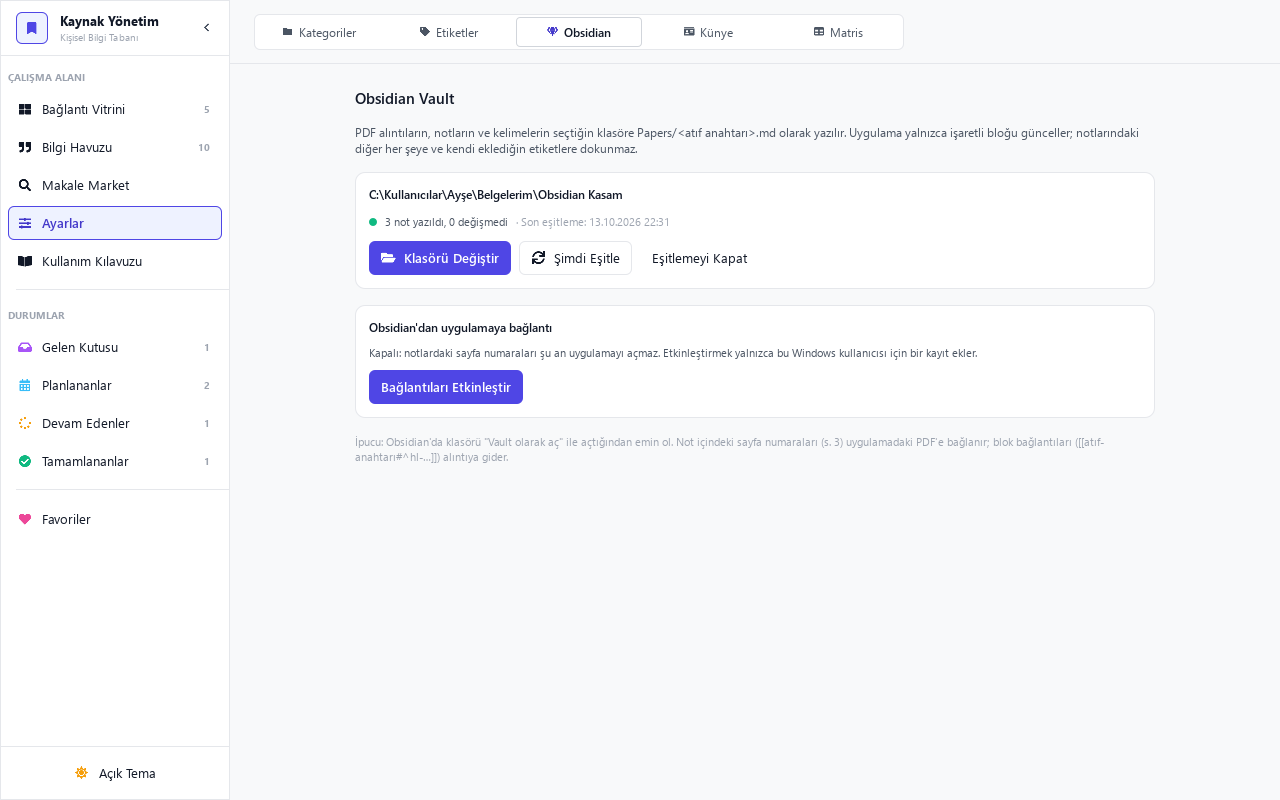
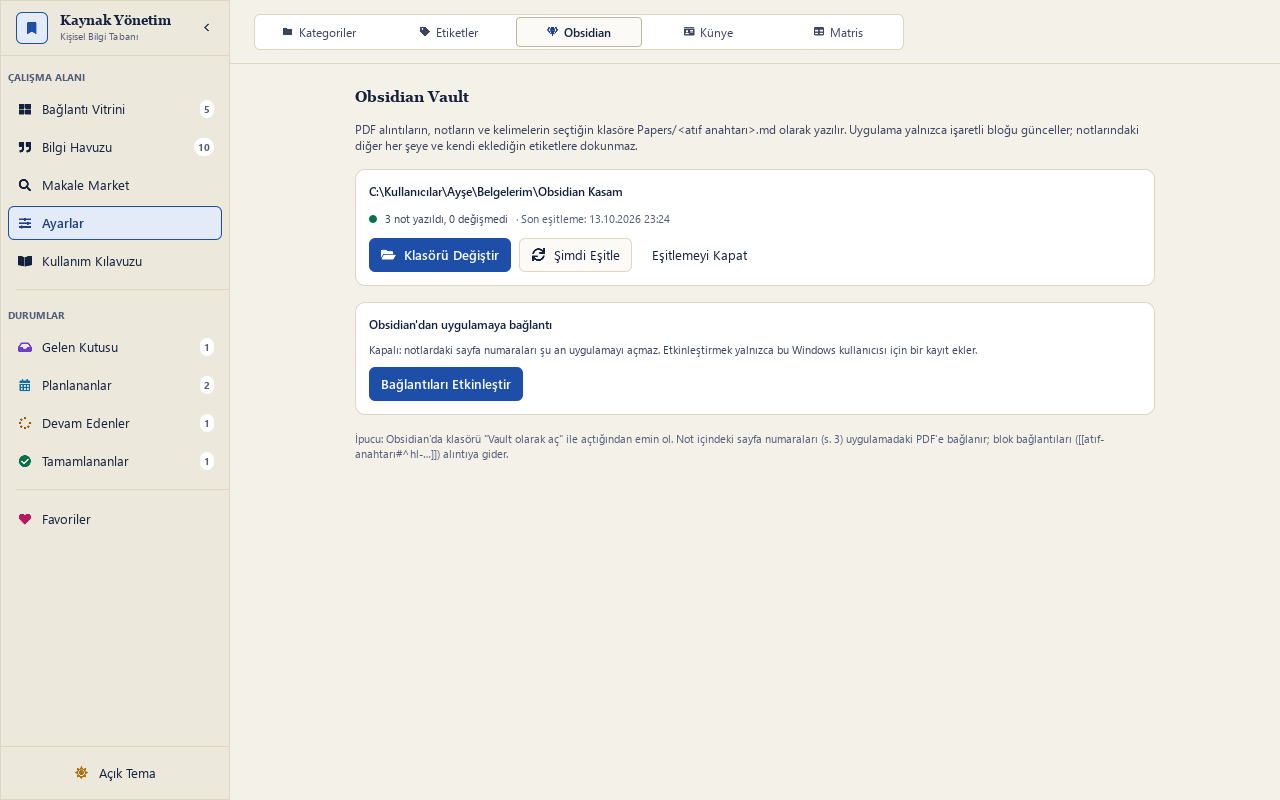
Akademik renk paleti ve tipografi denemesi
Zemin ve vurgu akademik paletle yeniden kuruldu: açık temada sıcak kâğıt
tonu, koyu temada derin lacivert, mürekkep laciverti metin, akademik mavi
vurgu. Durum renkleri açık temada daha koyu, koyu temada daha parlak;
tüm metin/zemin çiftleri WCAG AA (ana metin 7:1 üstü). Kontrast bir
testle her iki temada denetlenir.

Tipografi: arayüz Segoe UI Variable Text, başlıklar ve kart başlıkları
Sitka Heading (akademik serif), alıntılar Sitka Text. Aday yazı tipleri
Qt.fontFamilies() ile seçilir, kurulu değilse Georgia/Segoe UI'ye düşer;
yazı tipi dosyası paketlenmez. Kategori renk seçici paleti akademik
tonlara çekildi; kayıtlı kategori renkleri değişmez.

Kılavuz görselleri yeni temayla yeniden üretildi.

diff --git a/qml/theme/Theme.qml b/qml/theme/Theme.qml
@@ -7,76 +7,79 @@ QtObject {
     // Tema durumu (Bridge'e bağlı)
     property bool isDark: true
 
-    // Arka planlar (Notion / Linear tarzı katmanlar)
-    readonly property color bgBase: isDark ? "#0D0F17" : "#F8F9FA"
-    readonly property color bgSidebar: isDark ? "#121520" : "#FFFFFF"
-    readonly property color bgSurface: isDark ? "#181B28" : "#FFFFFF"
-    readonly property color bgElevated: isDark ? "#1F2335" : "#FFFFFF"
-    readonly property color bgHover: isDark ? "#262C42" : "#F3F4F6"
-    readonly property color bgActive: isDark ? "#2F3652" : "#E5E7EB"
+    // Akademik palet: mürekkep laciverti + kâğıt tonları. Açık temada sıcak "kâğıt" zemin (göz yormaz), koyu temada
+    // derin lacivert zemin; metinler her iki temada da WCAG AA (≥ 4.5:1) kontrastın üstündedir.
 
-    // Kenarlıklar (Subtle 1px borders)
-    readonly property color borderSubtle: isDark ? "#22273A" : "#E5E7EB"
-    readonly property color borderStrong: isDark ? "#353D5A" : "#D1D5DB"
-    readonly property color borderFocus: isDark ? "#6366F1" : "#4F46E5"
+    // Arka planlar (katmanlı yüzeyler)
+    readonly property color bgBase: isDark ? "#0B1020" : "#F4F1E9"
+    readonly property color bgSidebar: isDark ? "#0F1629" : "#ECE8DC"
+    readonly property color bgSurface: isDark ? "#141C33" : "#FBFAF6"
+    readonly property color bgElevated: isDark ? "#1B2542" : "#FFFFFF"
+    readonly property color bgHover: isDark ? "#243154" : "#E7E2D3"
+    readonly property color bgActive: isDark ? "#2E3E69" : "#DAD3BF"
+
+    // Kenarlıklar
+    readonly property color borderSubtle: isDark ? "#25314F" : "#DDD6C3"
+    readonly property color borderStrong: isDark ? "#3A4B78" : "#BDB49B"
+    readonly property color borderFocus: isDark ? "#7FA8FF" : "#1E4FA8"
 
     // Metinler
-    readonly property color textPrimary: isDark ? "#F9FAFB" : "#111827"
-    readonly property color textSecondary: isDark ? "#9CA3AF" : "#4B5563"
-    readonly property color textMuted: isDark ? "#64748B" : "#9CA3AF"
+    readonly property color textPrimary: isDark ? "#F5F2EA" : "#14213D"
+    readonly property color textSecondary: isDark ? "#C3CCE3" : "#3A4561"
+    readonly property color textMuted: isDark ? "#9AA7C8" : "#525D7A"
     readonly property color textOnAccent: "#FFFFFF"
 
-    // Vurgu (Accent - Indigo / Electric Sky)
-    readonly property color accent: isDark ? "#6366F1" : "#4F46E5"
-    readonly property color accentHover: isDark ? "#818CF8" : "#6366F1"
-    readonly property color accentSubtle: isDark ? "#1E223D" : "#EEF2FF"
-    readonly property color accentText: isDark ? "#A5B4FC" : "#4338CA"
+    // Vurgu (akademik mavi)
+    readonly property color accent: isDark ? "#3866D6" : "#1E4FA8"
+    readonly property color accentHover: isDark ? "#5E8CF0" : "#2A63C9"
+    readonly property color accentSubtle: isDark ? "#182750" : "#E4EBF8"
+    readonly property color accentText: isDark ? "#A9C2FF" : "#1B3F86"
 
-    // Durum Renkleri
-    readonly property color statusInbox: "#A855F7"
-    readonly property color statusPlanned: "#38BDF8"
-    readonly property color statusInProgress: "#F59E0B"
-    readonly property color statusCompleted: "#10B981"
+    // Durum Renkleri (açık temada daha koyu, koyu temada daha parlak: iki yüzeyde de okunur)
+    readonly property color statusInbox: isDark ? "#B99CF7" : "#6D3FC4"
+    readonly property color statusPlanned: isDark ? "#5CC3F5" : "#0B6FA8"
+    readonly property color statusInProgress: isDark ? "#F5B83D" : "#9A5208"
+    readonly property color statusCompleted: isDark ? "#3DD6A0" : "#08704E"
 
-    readonly property color statusInboxBg: isDark ? "#281738" : "#F3E8FF"
-    readonly property color statusPlannedBg: isDark ? "#13273D" : "#E0F2FE"
-    readonly property color statusInProgressBg: isDark ? "#332210" : "#FEF3C7"
-    readonly property color statusCompletedBg: isDark ? "#122E23" : "#D1FAE5"
+    readonly property color statusInboxBg: isDark ? "#2A1D47" : "#EBE3FA"
+    readonly property color statusPlannedBg: isDark ? "#10304A" : "#DCEEF9"
+    readonly property color statusInProgressBg: isDark ? "#3A2A0F" : "#FAEBCF"
+    readonly property color statusCompletedBg: isDark ? "#0F3328" : "#D5F0E3"
 
     // Aksiyon Renkleri
-    readonly property color danger: "#EF4444"
-    readonly property color dangerHover: "#DC2626"
-    readonly property color dangerSubtle: isDark ? "#32161A" : "#FEE2E2"
-    readonly property color dangerText: isDark ? "#FCA5A5" : "#B91C1C"
+    readonly property color danger: isDark ? "#F0645F" : "#C62828"
+    readonly property color dangerHover: isDark ? "#F47E7A" : "#A61F1F"
+    readonly property color dangerSubtle: isDark ? "#3A1B20" : "#FBE3E1"
+    readonly property color dangerText: isDark ? "#FFB4B0" : "#9B1C1C"
 
-    readonly property color favorite: "#EC4899"
-    readonly property color favoriteSubtle: isDark ? "#331627" : "#FCE7F3"
+    readonly property color favorite: isDark ? "#F472A8" : "#B8195F"
+    readonly property color favoriteSubtle: isDark ? "#3A1A2D" : "#FADCE9"
 
-    readonly property color pin: "#F59E0B"
+    readonly property color pin: isDark ? "#F2C04D" : "#A8730E"
 
     // Gölgeler ve Karartma
-    readonly property color shadowColor: isDark ? "#00000088" : "#00000018"
+    readonly property color shadowColor: isDark ? "#00000099" : "#14213D22"
     readonly property color overlayBg: "#00000077"
     readonly property color backdropSubtle: "#00000055"
-    readonly property color tooltipBg: isDark ? "#1E2235" : "#1F2937"
-    readonly property color chipUnselectedBg: isDark ? "#2A2F45" : "#E2E8F0"
-    readonly property color badgeOverlay: isDark ? "#141724DD" : "#FFFFFFEE"
-    readonly property color gradientHeaderStart: isDark ? "#1A2238" : "#EEF2FF"
-    readonly property color fallbackCategoryColor: "#64748B"
-    readonly property color popoverBg: isDark ? "#1A1E2F" : "#FFFFFF"
+    readonly property color tooltipBg: isDark ? "#1B2542" : "#14213D"
+    readonly property color chipUnselectedBg: isDark ? "#27345A" : "#E3DDCB"
+    readonly property color badgeOverlay: isDark ? "#0F1629DD" : "#FBFAF6EE"
+    readonly property color gradientHeaderStart: isDark ? "#16223F" : "#E4EBF8"
+    readonly property color fallbackCategoryColor: "#5B6683"
+    readonly property color popoverBg: isDark ? "#182140" : "#FFFFFF"
     readonly property color swatchBorderLight: "#FFFFFF44"
     readonly property color markerBorderLight: "#FFFFFF66"
     readonly property color thumbnailOverlay: "#00000045"
 
-    // Renk Paletleri
+    // Renk Paletleri (kategori rengi seçici)
     readonly property var categoryPalette: [
-        "#6366F1",
-        "#38BDF8",
-        "#10B981",
-        "#F59E0B",
-        "#EF4444",
-        "#EC4899",
-        "#8B5CF6"
+        "#1E4FA8", // Oxford mavisi
+        "#0F766E", // Çam yeşili-teal
+        "#15803D", // Orman yeşili
+        "#B35F0B", // Kehribar
+        "#9F1239", // Bordo
+        "#6D3FC4", // Mor
+        "#475569"  // Arduvaz
     ]
 
     // Alıntı Fosforlu Renk Paleti
@@ -96,8 +99,19 @@ QtObject {
     readonly property int radiusXl: 18
     readonly property int radiusPill: 999
 
-    // Tipografi
-    readonly property string fontFamily: "Inter, Segoe UI, sans-serif"
+    // Tipografi: arayüz Segoe UI Variable (modern, net), başlıklar Sitka Heading (akademik serif), okunacak metin
+    // (alıntılar) Sitka Text. Kurulu değilse sıradaki aday seçilir (Georgia / Segoe UI hemen her Windows'ta vardır).
+    function pickFamily(candidates, fallback) {
+        const available = Qt.fontFamilies()
+        for (let i = 0; i < candidates.length; i++) {
+            if (available.indexOf(candidates[i]) !== -1)
+                return candidates[i]
+        }
+        return fallback
+    }
+    readonly property string fontFamily: pickFamily(["Segoe UI Variable Text", "Segoe UI", "Inter"], "Segoe UI")
+    readonly property string fontHeading: pickFamily(["Sitka Heading", "Georgia", "Cambria", "Palatino Linotype"], "Georgia")
+    readonly property string fontReading: pickFamily(["Sitka Text", "Georgia", "Cambria", "Palatino Linotype"], "Georgia")
     readonly property int fontXs: 11
     readonly property int fontSm: 12
     readonly property int fontBase: 13

diff --git a/qml/views/SettingsView.qml b/qml/views/SettingsView.qml
@@ -289,7 +289,7 @@ Item {
 
                     Text {
                         text: "Yeni Kategori Ekle"
-                        font.family: Theme.fontFamily
+                        font.family: Theme.fontHeading
                         font.pixelSize: Theme.fontMd
                         font.weight: Font.DemiBold
                         color: Theme.textPrimary
@@ -369,7 +369,7 @@ Item {
 
                     Text {
                         text: "Mevcut Kategoriler (" + bridge.settings.categories.length + ")"
-                        font.family: Theme.fontFamily
+                        font.family: Theme.fontHeading
                         font.pixelSize: Theme.fontMd
                         font.weight: Font.DemiBold
                         color: Theme.textPrimary
@@ -399,7 +399,7 @@ Item {
 
                     Text {
                         text: "Yeni Etiket Ekle"
-                        font.family: Theme.fontFamily
+                        font.family: Theme.fontHeading
                         font.pixelSize: Theme.fontMd
                         font.weight: Font.DemiBold
                         color: Theme.textPrimary
@@ -471,7 +471,7 @@ Item {
 
                     Text {
                         text: "Mevcut Etiketler (" + bridge.settings.tags.length + ")"
-                        font.family: Theme.fontFamily
+                        font.family: Theme.fontHeading
                         font.pixelSize: Theme.fontMd
                         font.weight: Font.DemiBold
                         color: Theme.textPrimary

diff --git a/qml/views/GuideView.qml b/qml/views/GuideView.qml
@@ -67,7 +67,7 @@ Item {
                     anchors.leftMargin: 20
                     anchors.verticalCenter: parent.verticalCenter
                     text: "İçindekiler"
-                    font.family: Theme.fontFamily
+                    font.family: Theme.fontHeading
                     font.pixelSize: Theme.fontMd
                     font.weight: Font.DemiBold
                     color: Theme.textPrimary
@@ -174,7 +174,7 @@ Item {
 
                 Text {
                     text: "Kullanım Kılavuzu"
-                    font.family: Theme.fontFamily
+                    font.family: Theme.fontHeading
                     font.pixelSize: Theme.font2Xl
                     font.weight: Font.Bold
                     color: Theme.textPrimary
@@ -221,7 +221,7 @@ Item {
                         Text {
                             anchors.verticalCenter: parent.verticalCenter
                             text: (section.index + 1) + ". " + section.modelData.title
-                            font.family: Theme.fontFamily
+                            font.family: Theme.fontHeading
                             font.pixelSize: Theme.fontXl
                             font.weight: Font.DemiBold
                             color: Theme.textPrimary

diff --git a/qml/components/MatrixTab.qml b/qml/components/MatrixTab.qml
@@ -338,8 +338,8 @@ Item {
                                             width: parent.width
                                             wrapMode: Text.Wrap
                                             text: "“" + quoteItem.modelData.text + "”"
-                                            font.family: Theme.fontFamily
-                                            font.pixelSize: Theme.fontXs
+                                            font.family: Theme.fontReading
+                                            font.pixelSize: Theme.fontSm
                                             font.italic: true
                                             lineHeight: 1.2
                                             color: Theme.textPrimary

diff --git a/qml/components/AppCard.qml b/qml/components/AppCard.qml
@@ -365,8 +365,8 @@ Item {
                     // Column'un padding'i çocukları kaydırır: genişlikten düşülmezse metin sağdan taşıp kırpılır.
                     width: parent.width - parent.leftPadding - parent.rightPadding
                     text: root.title
-                    font.family: Theme.fontFamily
-                    font.pixelSize: root.isSimple ? Theme.fontBase : (Theme.fontBase + 1)
+                    font.family: Theme.fontHeading
+                    font.pixelSize: root.isSimple ? Theme.fontBase : (Theme.fontBase + 2)
                     font.weight: Font.DemiBold
                     color: Theme.textPrimary
                     lineHeight: root.isSimple ? 1.15 : 1.25

diff --git a/qml/components/ResourceFormModal.qml b/qml/components/ResourceFormModal.qml
@@ -128,7 +128,7 @@ Item {
                     anchors.left: parent.left
                     anchors.verticalCenter: parent.verticalCenter
                     text: root.resourceId > 0 ? "Kaynağı Düzenle" : "Yeni Kaynak Ekle"
-                    font.family: Theme.fontFamily
+                    font.family: Theme.fontHeading
                     font.pixelSize: Theme.fontLg
                     font.weight: Font.Bold
                     color: Theme.textPrimary

diff --git a/qml/components/InspectorDrawer.qml b/qml/components/InspectorDrawer.qml
@@ -65,7 +65,7 @@ Rectangle {
                 Text {
                     width: parent.width - 40
                     text: root.resource && root.resource.title ? root.resource.title : "İsimsiz Kaynak"
-                    font.family: Theme.fontFamily
+                    font.family: Theme.fontHeading
                     font.pixelSize: Theme.fontLg
                     font.weight: Font.Bold
                     color: Theme.textPrimary

diff --git a/qml/views/ShowcaseView.qml b/qml/views/ShowcaseView.qml
@@ -302,7 +302,7 @@ Item {
                 Text {
                     anchors.horizontalCenter: parent.horizontalCenter
                     text: "Henüz kriterlere uygun kaynak yok"
-                    font.family: Theme.fontFamily
+                    font.family: Theme.fontHeading
                     font.pixelSize: Theme.fontMd
                     font.weight: Font.DemiBold
                     color: Theme.textPrimary

diff --git a/qml/main.qml b/qml/main.qml
@@ -256,7 +256,7 @@ ApplicationWindow {
                 Text {
                     anchors.horizontalCenter: parent.horizontalCenter
                     text: "PDF'i buraya bırak"
-                    font.family: Theme.fontFamily
+                    font.family: Theme.fontHeading
                     font.pixelSize: Theme.fontLg
                     font.weight: Font.DemiBold
                     color: Theme.accentText

diff --git a/qml/components/PaperInfoPopup.qml b/qml/components/PaperInfoPopup.qml
@@ -34,7 +34,7 @@ Popup {
                 width: parent.width - fetchButton.width - 8
                 anchors.verticalCenter: parent.verticalCenter
                 text: "Atıf ve Kaynak Bilgisi"
-                font.family: Theme.fontFamily
+                font.family: Theme.fontHeading
                 font.pixelSize: Theme.fontMd
                 font.weight: Font.Bold
                 color: Theme.textPrimary

diff --git a/qml/components/InspectorHighlights.qml b/qml/components/InspectorHighlights.qml
@@ -50,7 +50,7 @@ Column {
                 Text {
                     width: parent.width
                     text: "“" + modelData.content + "”"
-                    font.family: Theme.fontFamily
+                    font.family: Theme.fontReading
                     font.pixelSize: Theme.fontSm
                     font.italic: true
                     color: Theme.textPrimary

diff --git a/qml/components/HighlightsTab.qml b/qml/components/HighlightsTab.qml
@@ -253,7 +253,7 @@ Item {
                 Text {
                     width: parent.width - 50
                     text: "“" + modelData.content + "”"
-                    font.family: Theme.fontFamily
+                    font.family: Theme.fontReading
                     font.pixelSize: Theme.fontBase
                     font.italic: true
                     lineHeight: 1.3
